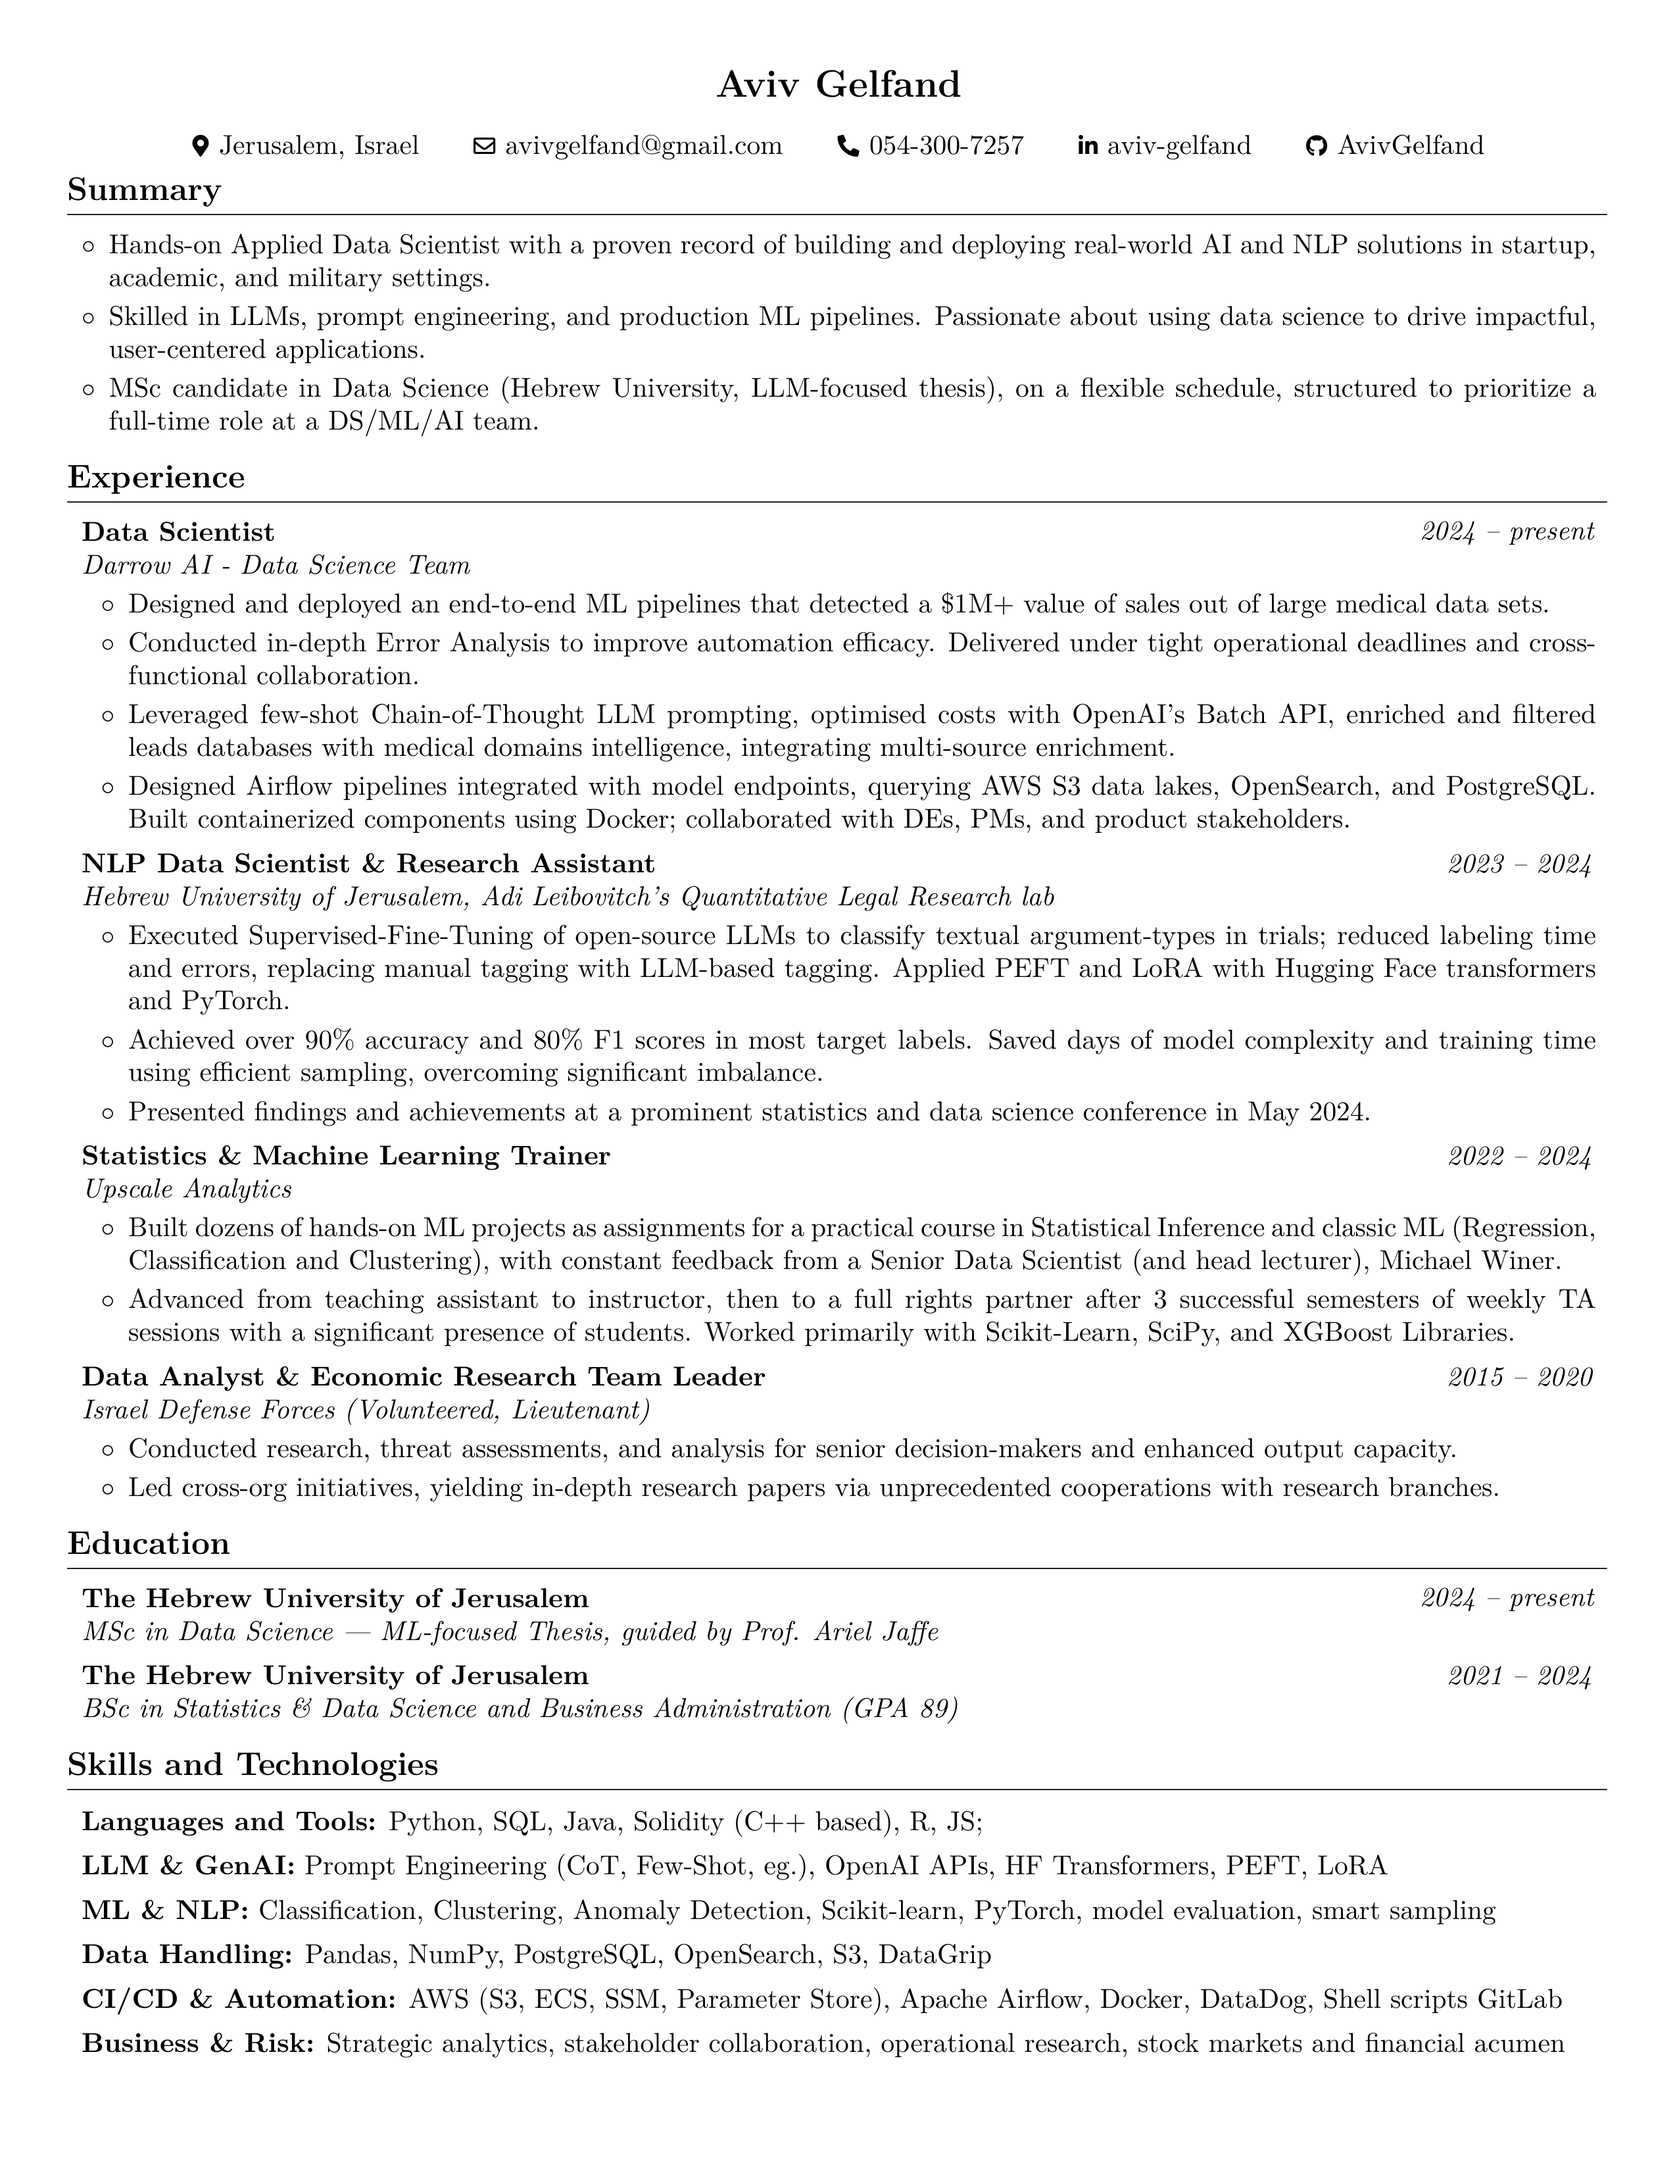
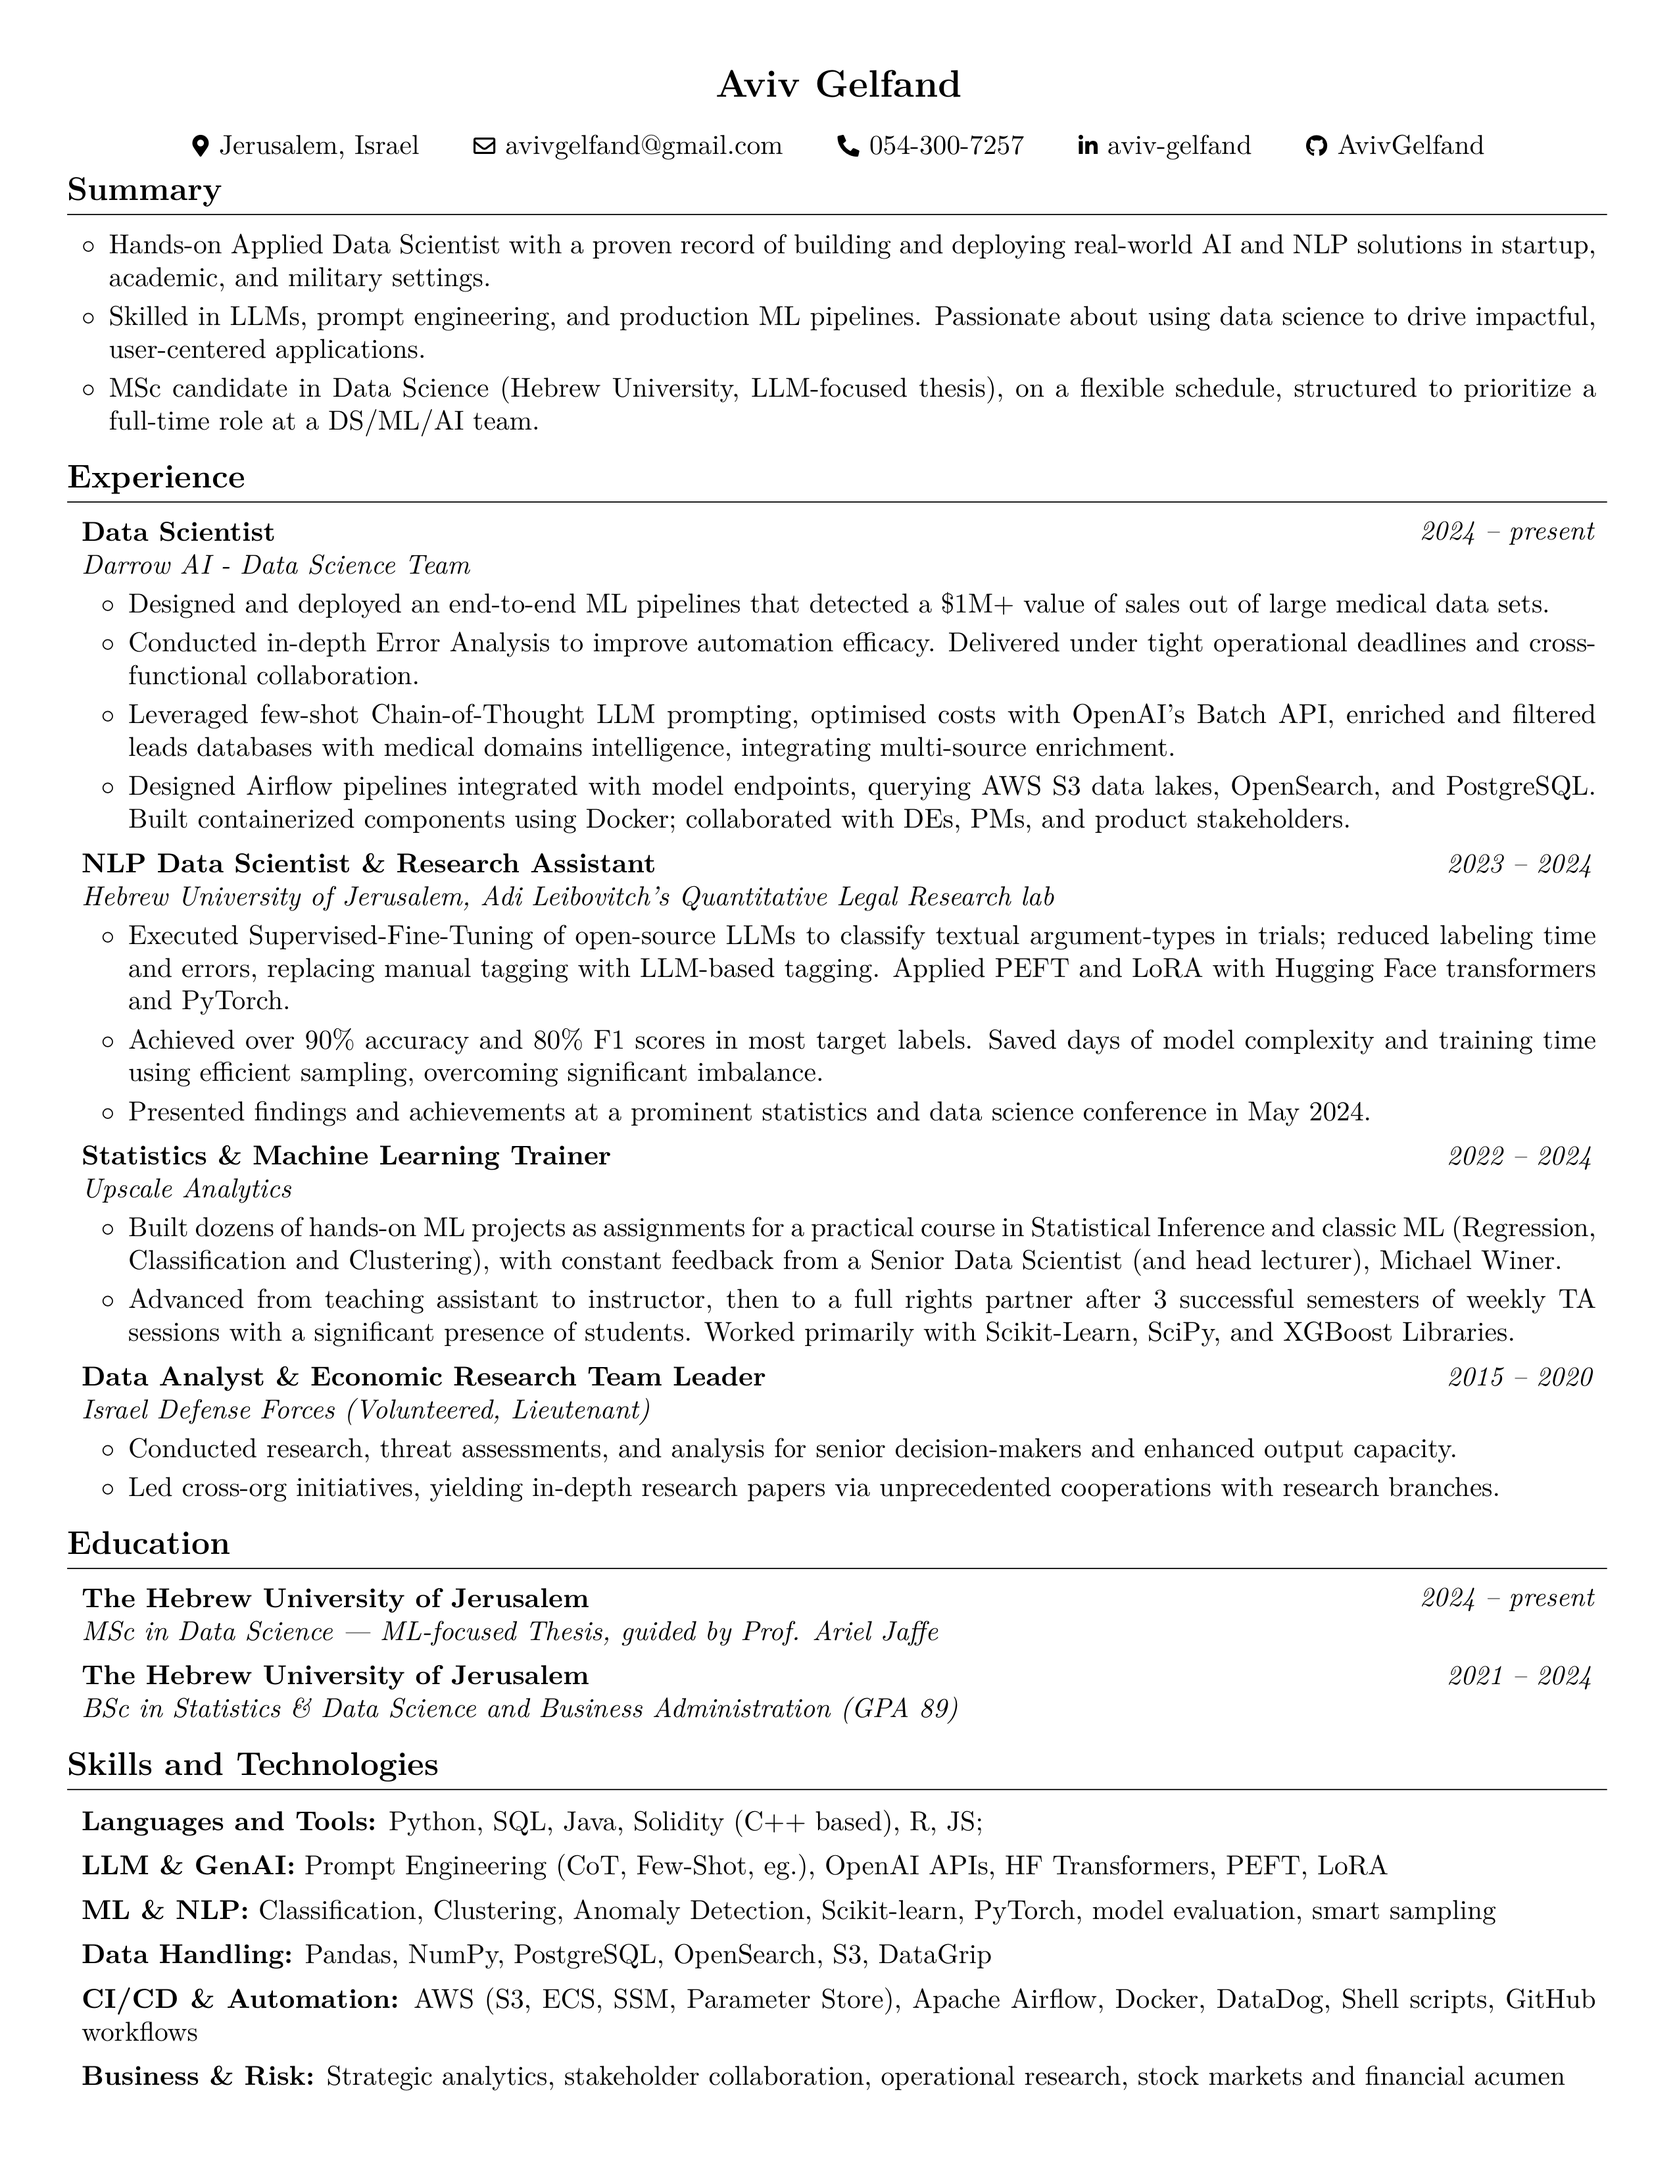
Render the latest CV

Changed region(s): [[0.031, 0.9052, 0.9294, 0.9676]]

diff --git a/Aviv_Gelfand_CV.html b/Aviv_Gelfand_CV.html
@@ -89,7 +89,7 @@
         <li>LLM &amp; GenAI: Prompt Engineering (CoT, Few-Shot, eg.), OpenAI APIs, HF Transformers, PEFT, LoRA</li>
         <li>ML &amp; NLP: Classification, Clustering, Anomaly Detection, Scikit-learn, PyTorch, model evaluation, smart sampling</li>
         <li>Data Handling: Pandas, NumPy, PostgreSQL, OpenSearch, S3, DataGrip</li>
-        <li>CI/CD &amp; Automation: AWS (S3, ECS, SSM, Parameter Store), Apache Airflow, Docker, DataDog, Shell scripts GitLab</li>
+        <li>CI/CD &amp; Automation: AWS (S3, ECS, SSM, Parameter Store), Apache Airflow, Docker, DataDog, Shell scripts, GitHub workflows</li>
         <li>Business &amp; Risk: Strategic analytics, stakeholder collaboration, operational research, stock markets and financial acumen</li>
         </ul>
     </article>

diff --git a/Aviv_Gelfand_CV.tex b/Aviv_Gelfand_CV.tex
@@ -340,7 +340,7 @@
         \vspace{0.15 cm}
 
         \begin{onecolentry}
-            \textbf{CI/CD \& Automation:} AWS (S3, ECS, SSM, Parameter Store), Apache Airflow, Docker, DataDog, Shell scripts GitLab
+            \textbf{CI/CD \& Automation:} AWS (S3, ECS, SSM, Parameter Store), Apache Airflow, Docker, DataDog, Shell scripts, GitHub workflows
         \end{onecolentry}
 
         \vspace{0.15 cm}

diff --git a/README.md b/README.md
@@ -59,5 +59,5 @@
 - LLM & GenAI: Prompt Engineering (CoT, Few-Shot, eg.), OpenAI APIs, HF Transformers, PEFT, LoRA
 - ML & NLP: Classification, Clustering, Anomaly Detection, Scikit-learn, PyTorch, model evaluation, smart sampling
 - Data Handling: Pandas, NumPy, PostgreSQL, OpenSearch, S3, DataGrip
-- CI/CD & Automation: AWS (S3, ECS, SSM, Parameter Store), Apache Airflow, Docker, DataDog, Shell scripts GitLab
+- CI/CD & Automation: AWS (S3, ECS, SSM, Parameter Store), Apache Airflow, Docker, DataDog, Shell scripts, GitHub workflows
 - Business & Risk: Strategic analytics, stakeholder collaboration, operational research, stock markets and financial acumen
